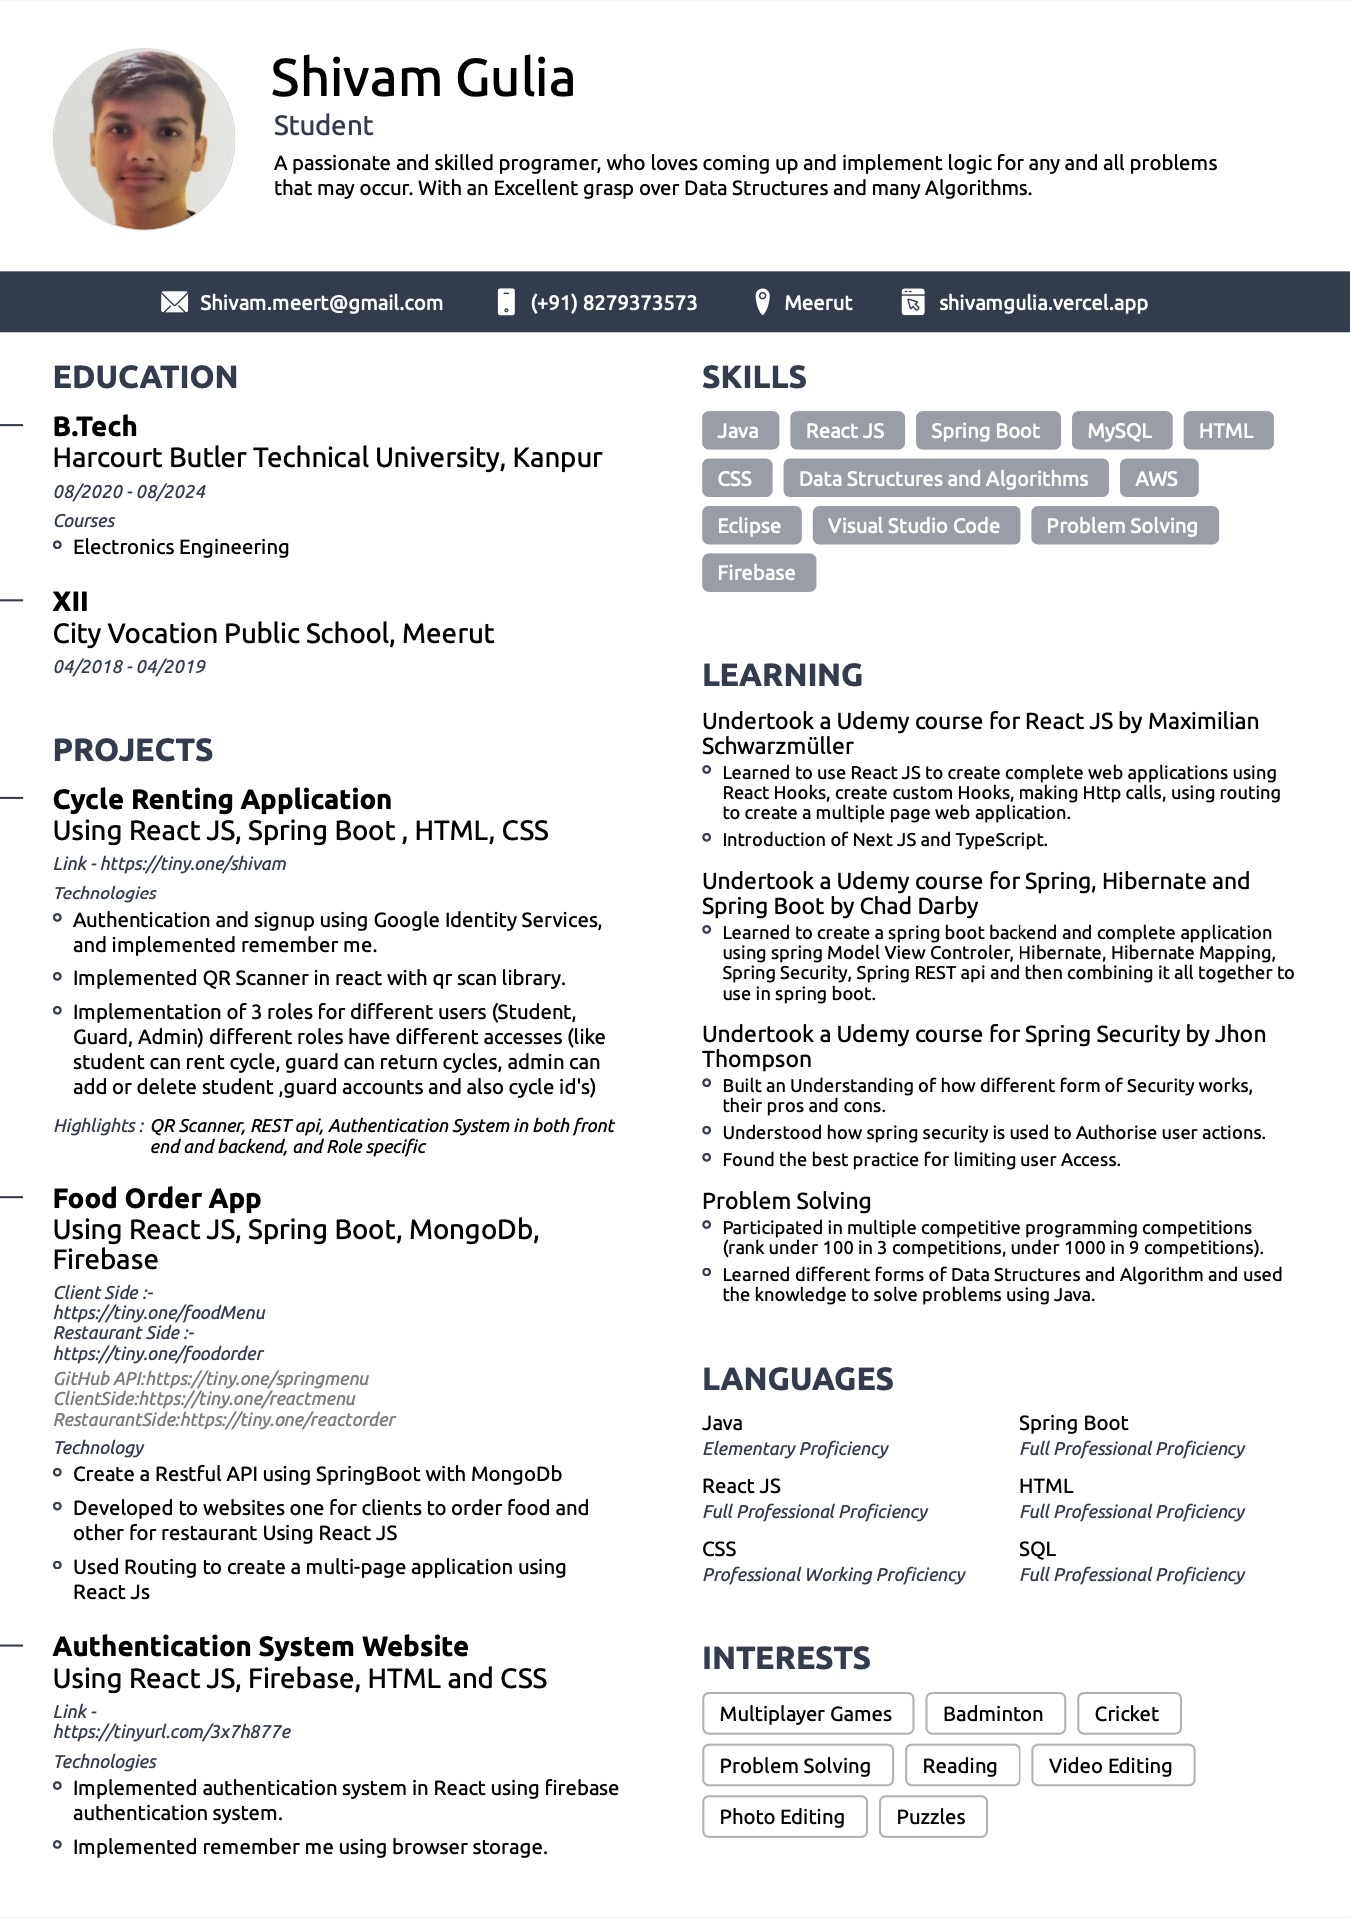
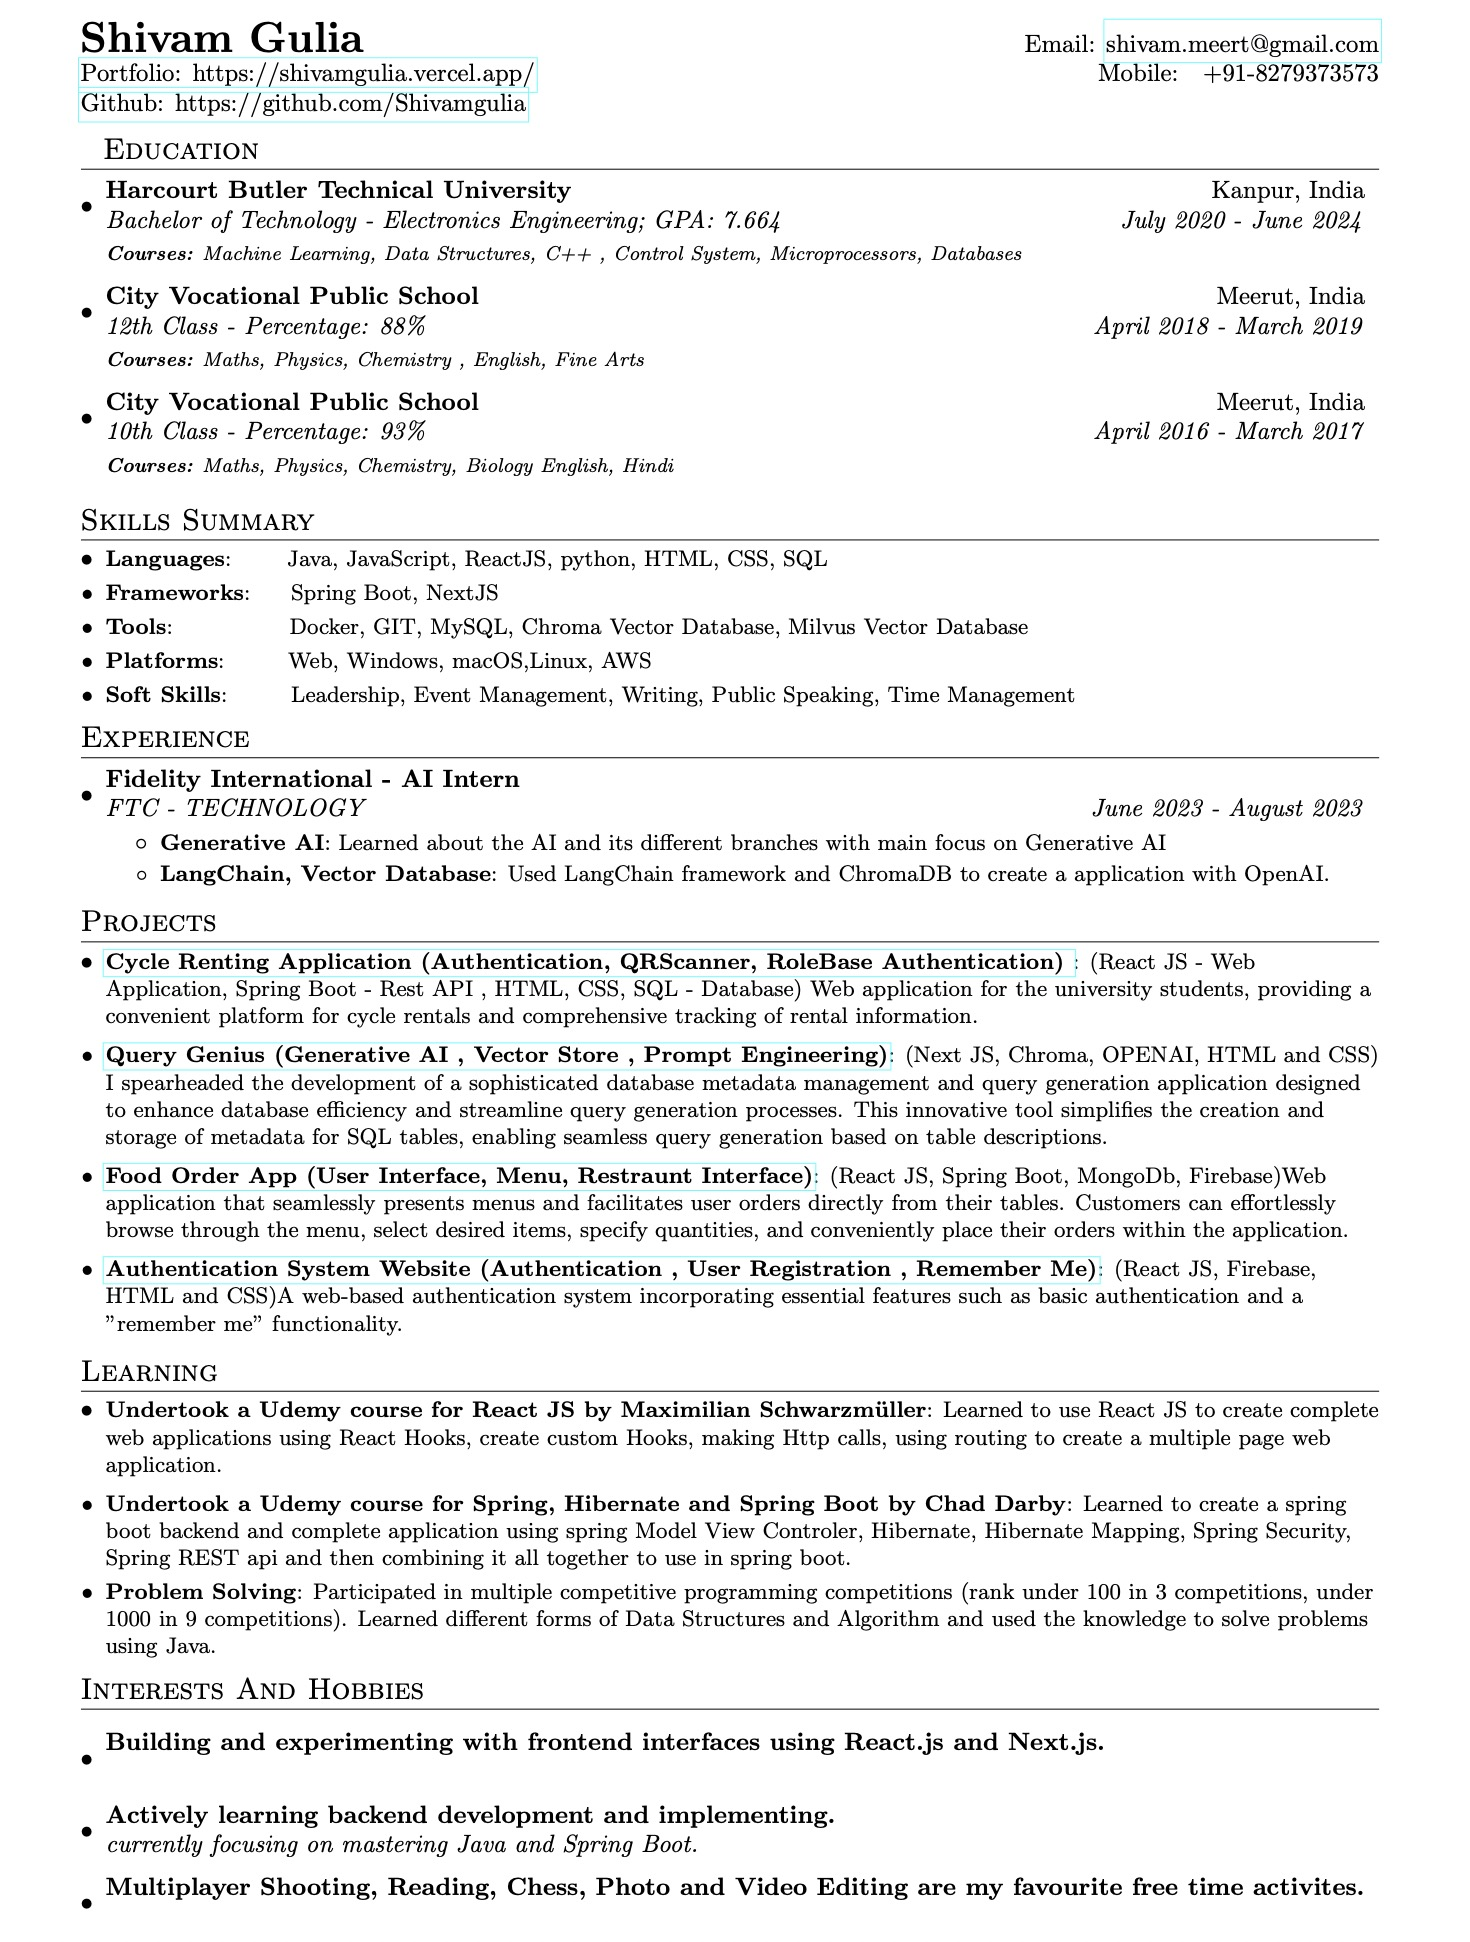
updated resume and added sqlgen to the project list

Changed region(s): [[0.0, 0.0, 1.0, 0.9844]]

diff --git a/pages/projects/[projectId].js b/pages/projects/[projectId].js
@@ -4,6 +4,7 @@ import Button2 from '../../componnts/UI/Buttons/Button2';
 import Quotes from '../../resources/Quotes.jpg';
 import Authen from '../../resources/Authen.jpg';
 import FoodOrder from '../../resources/FoodOrder.jpg';
+import SQLGen from '../../resources/SQLGen.jpg';
 import Green from '../../resources/Green.jpg';
 import classes from '../../styles/Projects/ProjectDetails.module.css';
 import HrefLink from '../../componnts/UI/Buttons/HrefLink';
@@ -35,6 +36,34 @@ const Projects = [
   },
   {
     id: 2,
+    name: 'Query Genius',
+    image: SQLGen,
+    descreption:
+      'A sophisticated database metadata management and query generation application designed to enhance database efficiency and streamline query generation processes. This innovative tool simplifies the creation and storage of metadata for SQL tables, enabling seamless query generation based on table descriptions.',
+    work: [
+      {
+        id: 1,
+        det: 'creating metadata based on create Table SQL query',
+      },
+      {
+        id: 2,
+        det: 'Saving thegenerated meta data in vectorstore(chroma)',
+      },
+      {
+        id: 3,
+        det: 'Using Generative AI to create correct SQL statements for the given tables in the vectorstore',
+      },
+    ],
+    links: [
+      {
+        id: 1,
+        des: 'GitHub',
+        link: 'https://github.com/Shivamgulia/SQL-Generator',
+      },
+    ],
+  },
+  {
+    id: 3,
     name: 'Menu',
     image: FoodOrder,
     descreption:
@@ -86,7 +115,7 @@ const Projects = [
     ],
   },
   {
-    id: 3,
+    id: 4,
     name: 'Authentication',
     image: Authen,
     descreption:
@@ -110,7 +139,7 @@ const Projects = [
     ],
   },
   {
-    id: 4,
+    id: 5,
     name: 'Quotes',
     image: Quotes,
     descreption:
@@ -156,7 +185,7 @@ export default function ProjectDetails() {
   const Router = useRouter();
   const { projectId } = Router.query;
   const index = Number(projectId);
-  if (!index || index > 4 || index < 1) {
+  if (!index || index > 5 || index < 1) {
     return (
       <div className={classes.detCont}>
         <div className={classes.webdiv}></div>
@@ -175,7 +204,7 @@ export default function ProjectDetails() {
     >
       <div className={classes.detCont}>
         <div className={classes.webdiv}>
-          <img src={item.image.src} alt="" />
+          <img src={item.image.src} alt='' />
         </div>
         <div className={classes.info}>
           <h1>{item.name}</h1>

diff --git a/componnts/projects/ProjectList.js b/componnts/projects/ProjectList.js
@@ -1,6 +1,7 @@
 import ProjectItem from './ProjectItem';
 import Quotes from '../../resources/Quotes.jpg';
 import Authen from '../../resources/Authen.jpg';
+import SQLGen from '../../resources/SQLGen.jpg';
 import FoodOrder from '../../resources/FoodOrder.jpg';
 import Green from '../../resources/Green.jpg';
 import classes from '../../styles/Projects/ProjectList.module.css';
@@ -32,6 +33,34 @@ const Projects = [
   },
   {
     id: 2,
+    name: 'Query Genius',
+    image: SQLGen,
+    descreption:
+      'A sophisticated database metadata management and query generation application designed to enhance database efficiency and streamline query generation processes. This innovative tool simplifies the creation and storage of metadata for SQL tables, enabling seamless query generation based on table descriptions.',
+    work: [
+      {
+        id: 1,
+        det: 'creating metadata based on create Table SQL query',
+      },
+      {
+        id: 2,
+        det: 'Saving thegenerated meta data in vectorstore(chroma)',
+      },
+      {
+        id: 3,
+        det: 'Using Generative AI to create correct SQL statements for the given tables in the vectorstore',
+      },
+    ],
+    links: [
+      {
+        id: 1,
+        des: 'GitHub',
+        link: 'https://github.com/Shivamgulia/SQL-Generator',
+      },
+    ],
+  },
+  {
+    id: 3,
     name: 'Menu',
     image: FoodOrder,
     descreption:
@@ -83,7 +112,7 @@ const Projects = [
     ],
   },
   {
-    id: 3,
+    id: 4,
     name: 'Authentication',
     image: Authen,
     descreption:
@@ -107,7 +136,7 @@ const Projects = [
     ],
   },
   {
-    id: 4,
+    id: 5,
     name: 'Quotes',
     image: Quotes,
     descreption:

diff --git a/componnts/Main/Comps/Third.js b/componnts/Main/Comps/Third.js
@@ -2,6 +2,7 @@ import { useRouter } from 'next/router';
 
 import ProjectIntro from '../../projects/ProjectIntro';
 import Authen from '../../../resources/Authen.jpg';
+import SQLGen from '../../../resources/SQLGen.jpg';
 import Quotes from '../../../resources/Quotes.jpg';
 import FoodOrder from '../../../resources/FoodOrder.jpg';
 import Green from '../../../resources/Green.jpg';
@@ -23,28 +24,28 @@ export default function Third() {
             Router.push('./projects/1');
           }}
         >
-          <ProjectIntro image={Green} text="Green Rides" />
+          <ProjectIntro image={Green} text='Green Rides' />
         </div>
         <div
           onClick={() => {
             Router.push('./projects/2');
           }}
         >
-          <ProjectIntro image={FoodOrder} text="Menu" />
-        </div>
-        <div
-          onClick={() => {
-            Router.push('./projects/4');
-          }}
-        >
-          <ProjectIntro image={Quotes} text="Quotes" />
+          <ProjectIntro image={SQLGen} text='QueryGenius' />
         </div>
         <div
           onClick={() => {
             Router.push('./projects/3');
           }}
         >
-          <ProjectIntro image={Authen} text="Authentication" />
+          <ProjectIntro image={FoodOrder} text='Menu' />
+        </div>
+        <div
+          onClick={() => {
+            Router.push('./projects/5');
+          }}
+        >
+          <ProjectIntro image={Quotes} text='Quotes' />
         </div>
       </div>
     </div>

diff --git a/componnts/projects/List.js b/componnts/projects/List.js
@@ -26,6 +26,34 @@ export default function List() {
     },
     {
       id: 2,
+      name: 'Query Genius',
+      image: SQLGen,
+      descreption:
+        'A sophisticated database metadata management and query generation application designed to enhance database efficiency and streamline query generation processes. This innovative tool simplifies the creation and storage of metadata for SQL tables, enabling seamless query generation based on table descriptions.',
+      work: [
+        {
+          id: 1,
+          det: 'creating metadata based on create Table SQL query',
+        },
+        {
+          id: 2,
+          det: 'Saving thegenerated meta data in vectorstore(chroma)',
+        },
+        {
+          id: 3,
+          det: 'Using Generative AI to create correct SQL statements for the given tables in the vectorstore',
+        },
+      ],
+      links: [
+        {
+          id: 1,
+          des: 'GitHub',
+          link: 'https://github.com/Shivamgulia/SQL-Generator',
+        },
+      ],
+    },
+    {
+      id: 3,
       name: 'Menu',
       image: FoodOrder,
       descreption:
@@ -77,7 +105,7 @@ export default function List() {
       ],
     },
     {
-      id: 3,
+      id: 4,
       name: 'Authentication',
       image: Authen,
       descreption:
@@ -106,7 +134,7 @@ export default function List() {
       ],
     },
     {
-      id: 4,
+      id: 5,
       name: 'Quotes',
       image: Quotes,
       descreption:

diff --git a/componnts/UI/Buttons/Banner.js b/componnts/UI/Buttons/Banner.js
@@ -6,13 +6,13 @@ import classes from '../../../styles/UI/Banner.module.css';
 export default function Banner(props) {
   return (
     <div>
-      <button className={classes.banner} role="button">
+      <button className={classes.banner} role='button'>
         <span className={classes.txt}>
           <h1 className={classes.headBan}>{props.name}</h1>
         </span>
         <div className={classes.imag}>
           {/* <Image src={props.image} width={350} height={200} alt={props.name} /> */}
-          <img src={props.image.src} alt="" />
+          <img src={props.image.src} alt='' />
         </div>
       </button>
     </div>

diff --git a/componnts/Resume/MainRes.js b/componnts/Resume/MainRes.js
@@ -11,12 +11,12 @@ export default function MainRes() {
     <div className={classes.resCont}>
       <div className={classes.downl}>
         <HrefLink
-          text="Download"
-          link="https://drive.google.com/uc?export=download&id=18ZknA5TgRDufFMcNszzkJJnvB3jEafd2"
+          text='Download'
+          link='https://drive.google.com/uc?export=download&id=1Uu6_DwrCvt8ykVtt_A3yf-XPdnRt5Rw9'
         />
       </div>
       <div className={classes.image}>
-        <img src={Resume.src} alt="" />
+        <img src={Resume.src} alt='' />
       </div>
     </div>
   );
